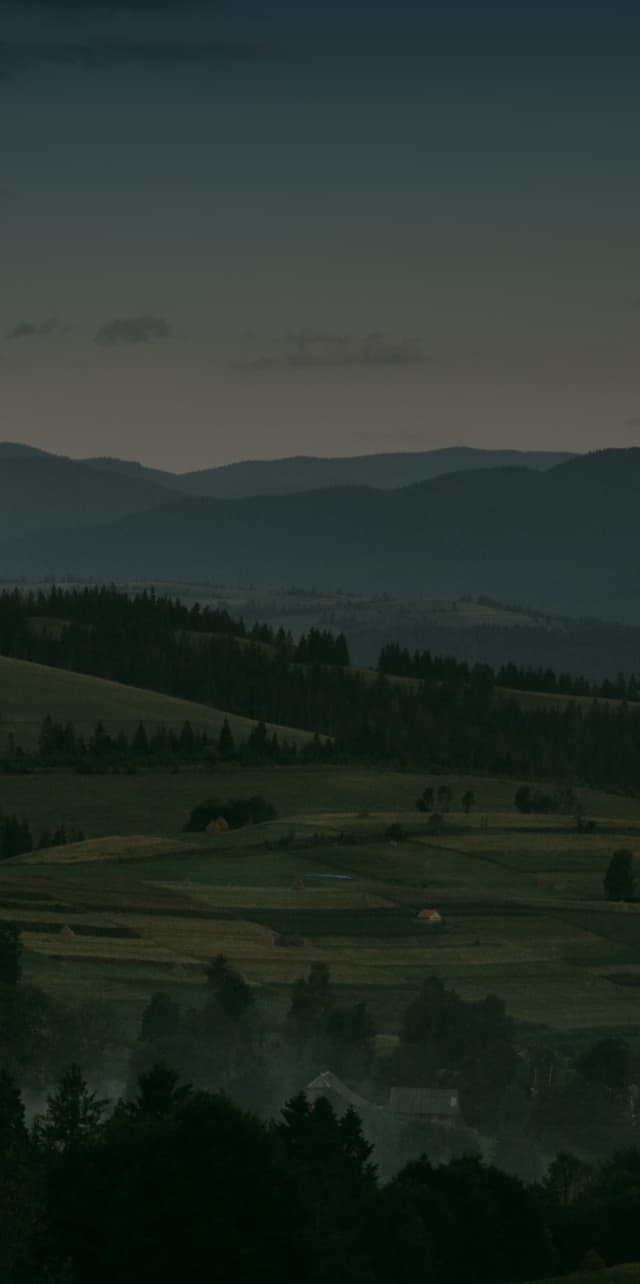
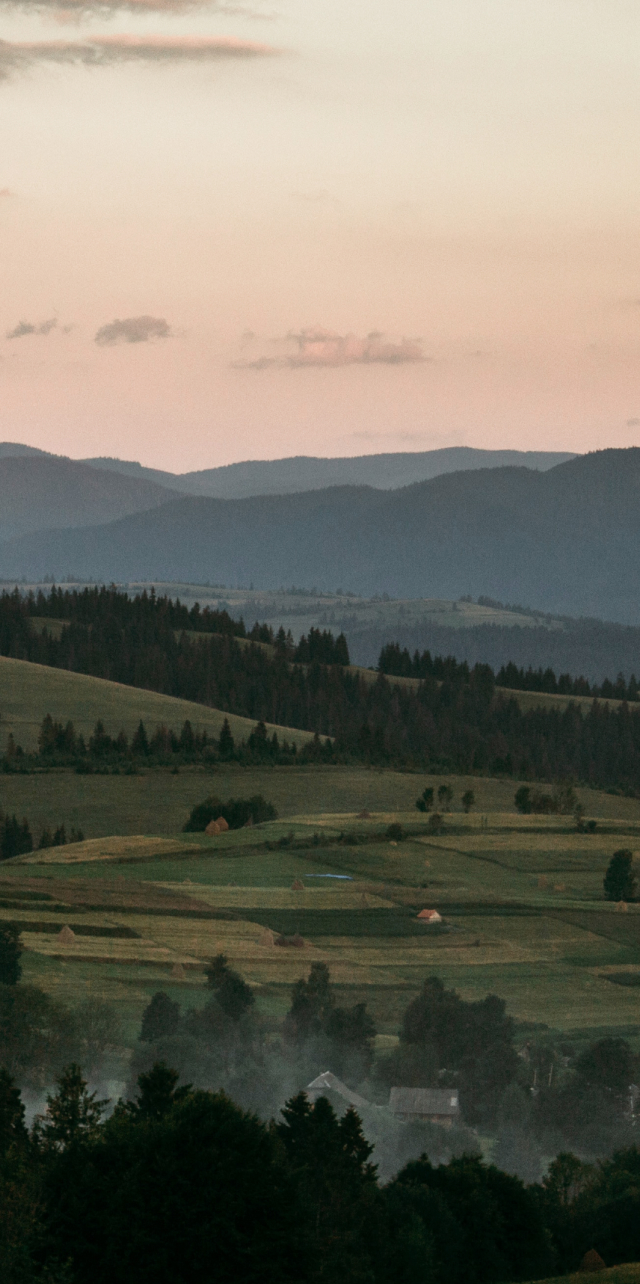
rework hero background

diff --git a/src/sections/hero/Hero.module.css b/src/sections/hero/Hero.module.css
@@ -1,6 +1,11 @@
 .hero {
   padding-top: 50px;
-  background-image: url(/image/hero/background-hero-320.jpg);
+  background-image: linear-gradient(
+      to right,
+      rgba(2, 15, 8, 0.5),
+      rgba(2, 15, 8, 0.5)
+    ),
+    url(/image/hero/background-hero-320.jpg);
   background-repeat: no-repeat;
   background-position: center;
   background-size: cover;
@@ -8,12 +13,22 @@
 
 @media screen and (min-width: 768px) {
   .hero {
-    background-image: url(/image/hero/background-hero-768.jpg);
+    background-image: linear-gradient(
+        to right,
+        rgba(2, 15, 8, 0.5),
+        rgba(2, 15, 8, 0.5)
+      ),
+      url(/image/hero/background-hero-768.jpg);
   }
 }
 
 @media screen and (min-width: 1280px) {
   .hero {
-    background-image: url(/image/hero/background-hero-1280.jpg);
+    background-image: linear-gradient(
+        to right,
+        rgba(2, 15, 8, 0.5),
+        rgba(2, 15, 8, 0.5)
+      ),
+      url(/image/hero/background-hero-1280.jpg);
   }
 }

diff --git a/src/components/UiKit/InputField/InputField.tsx b/src/components/UiKit/InputField/InputField.tsx
@@ -10,7 +10,7 @@ import { FormContactValues } from '@/components/Modules/ContactForm/ContactForm'
 
 export interface InputFieldProps
   extends React.InputHTMLAttributes<HTMLInputElement> {
-  register: UseFormRegister<FormValues | FormContactValues>;
+  register: UseFormRegister<FormValues>;
   label: string;
   name: keyof FormValues;
   error?: FieldError | undefined;
